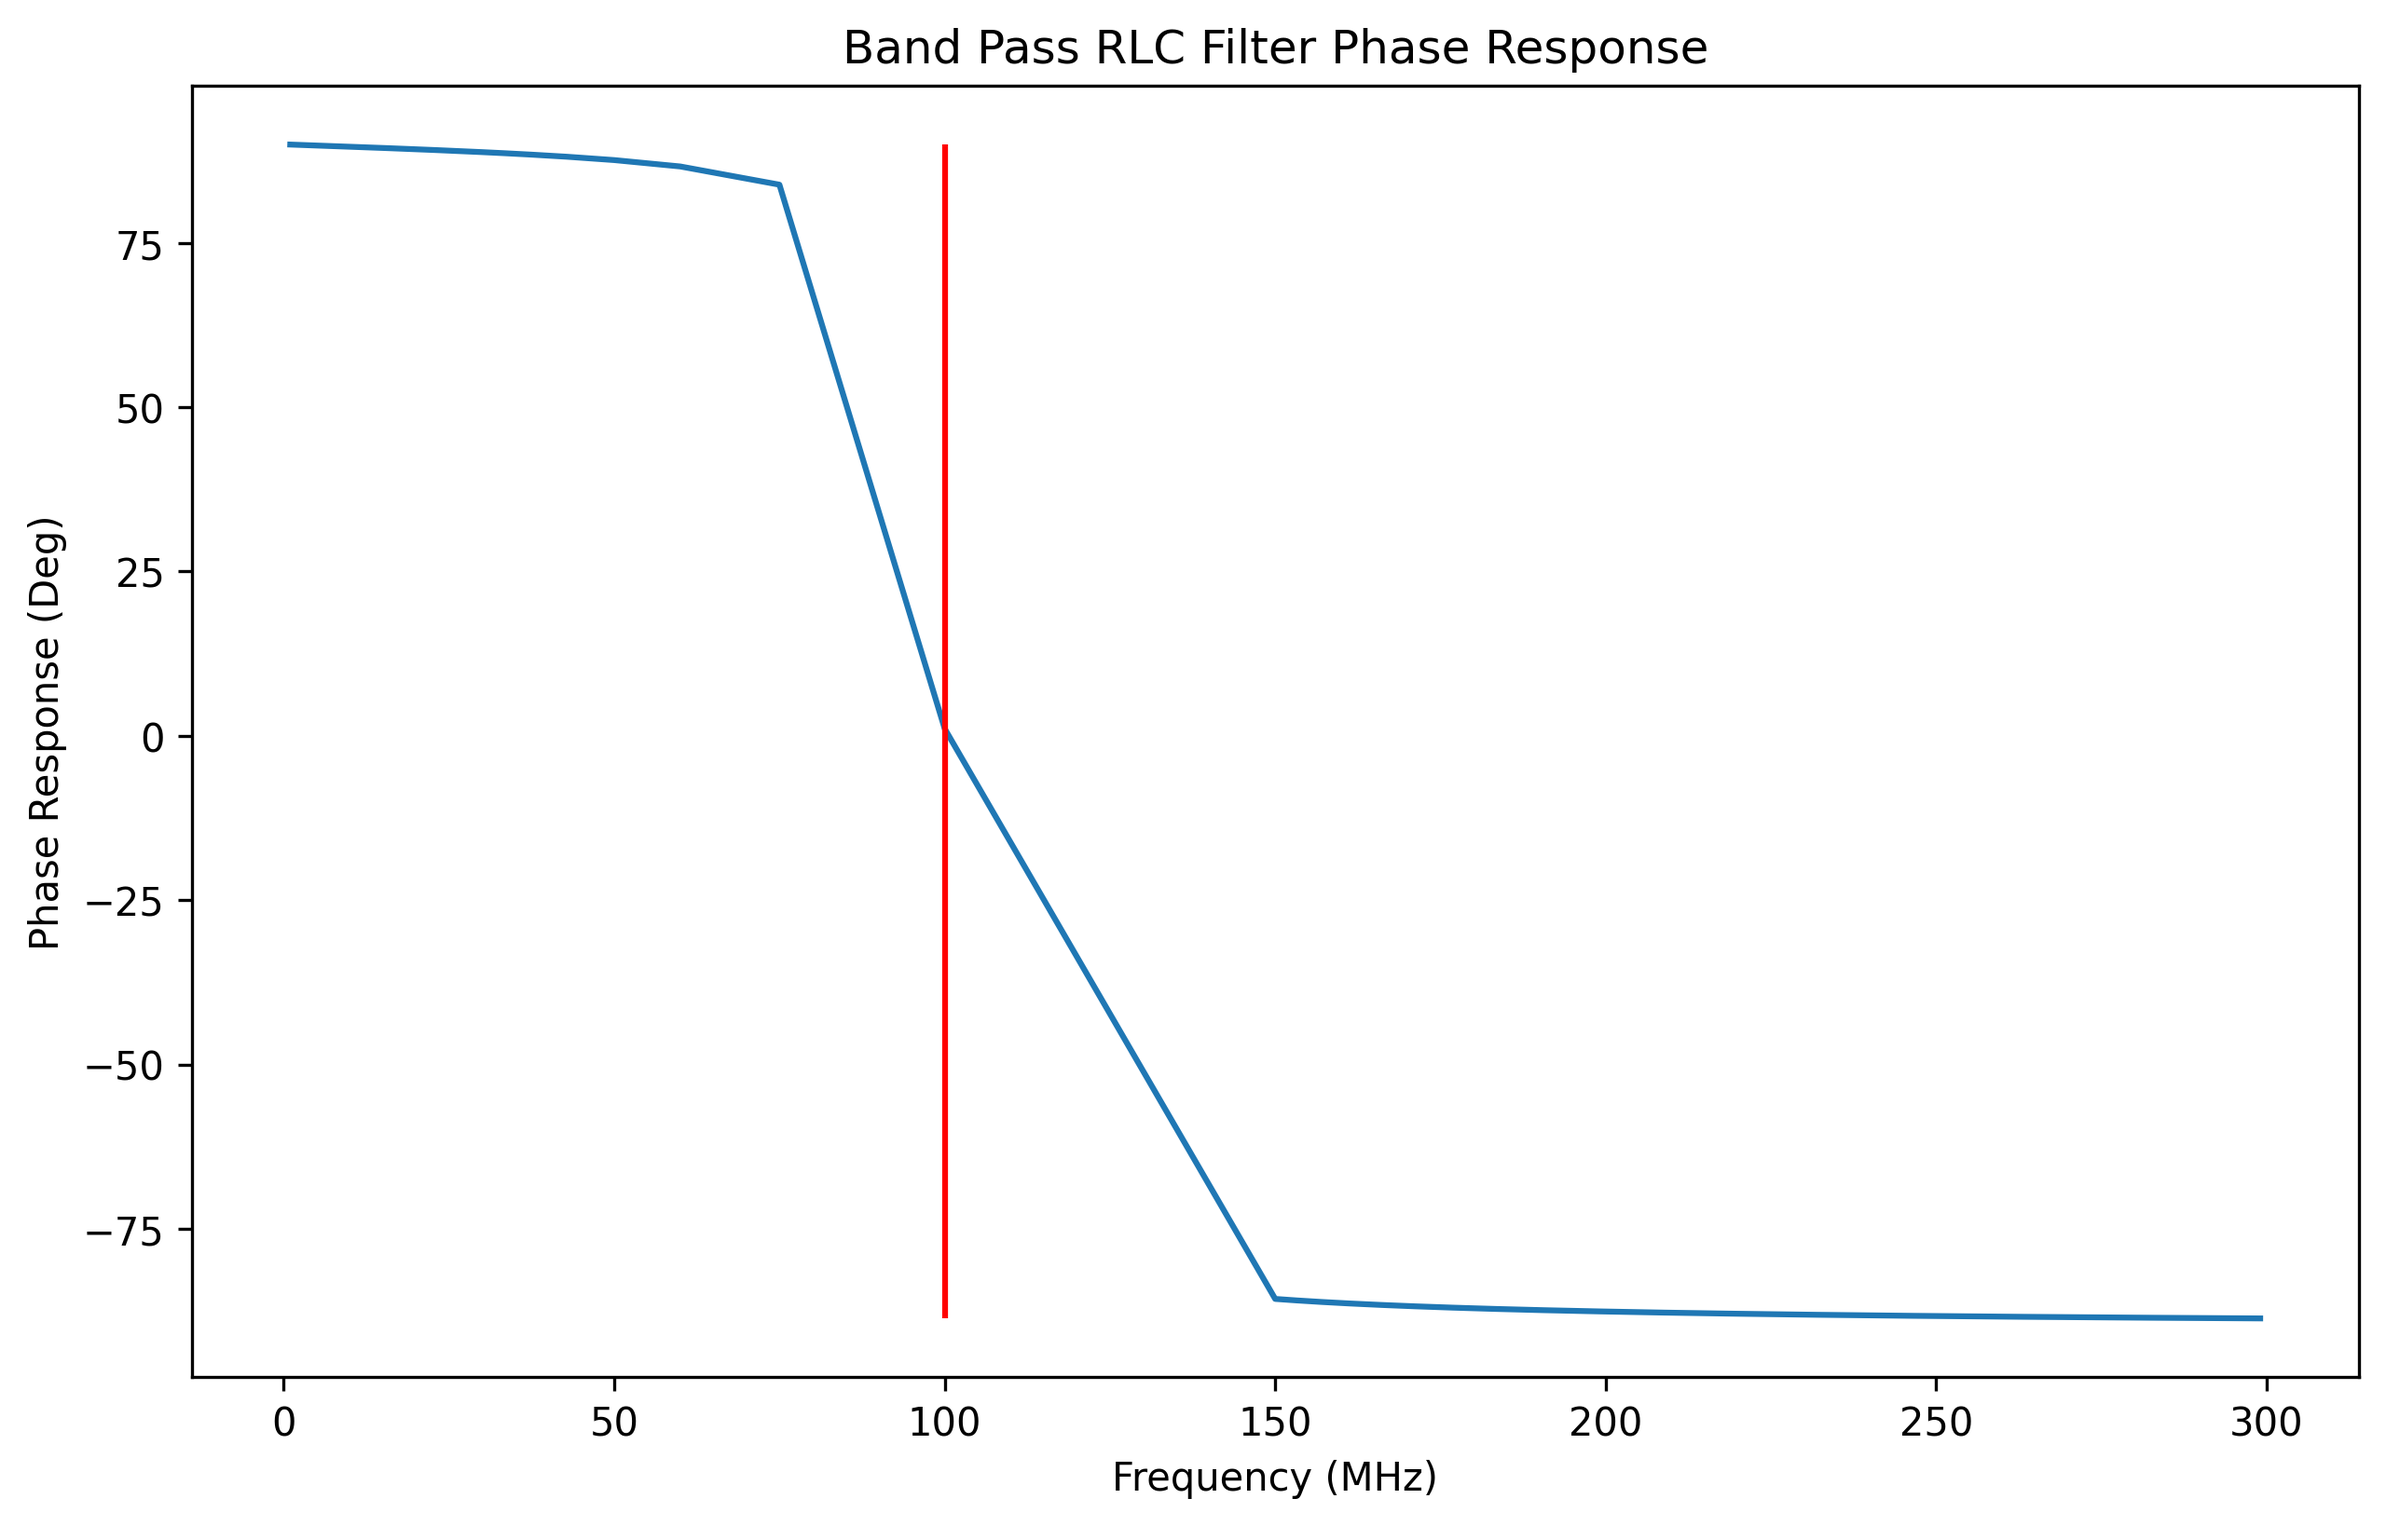
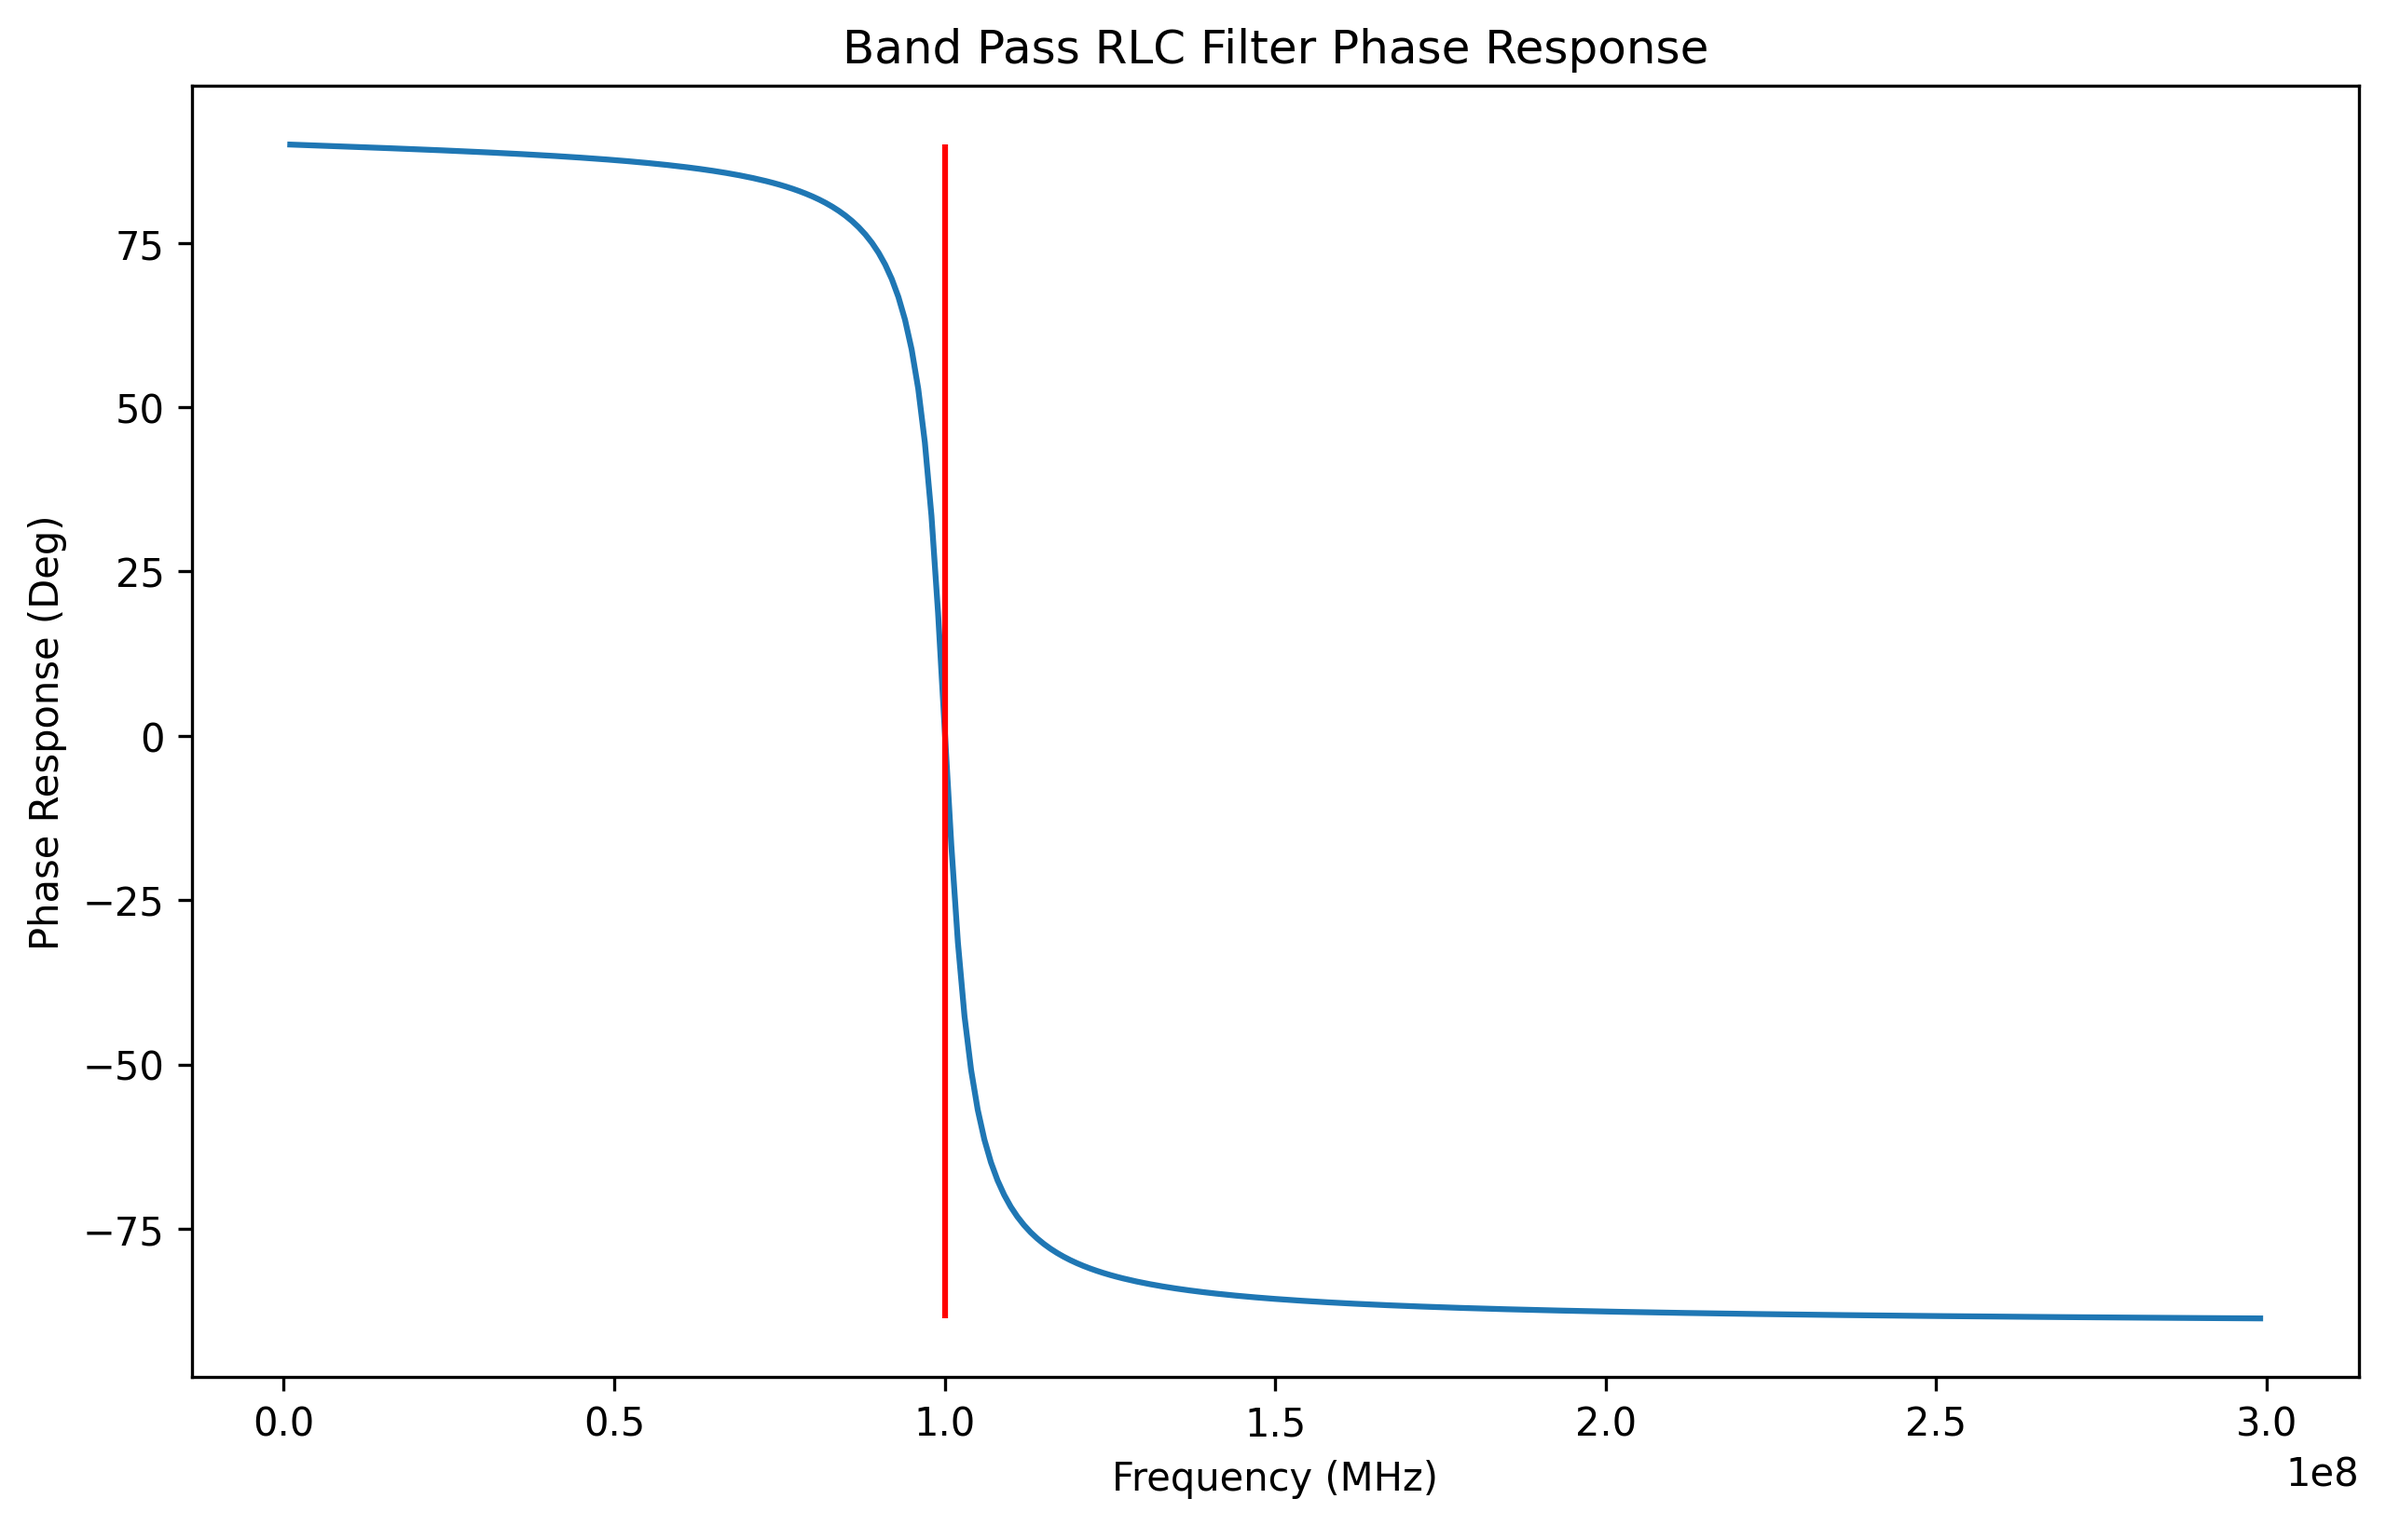
More work

diff --git a/Circuits/frequencyResponse.py b/Circuits/frequencyResponse.py
@@ -15,27 +15,31 @@ def response_finder(fs: list,ftype: str, R: float=0, C: float=0,L: float=0) -> t
         if ftype == 'Low':
             Z_2 = Z_C
             Z_1 = R
+            ctf = H(Z_1,Z_2)
         elif ftype == 'High':
             Z_2 = R
             Z_1 = Z_C
+            ctf = H(Z_1,Z_2)
         elif ftype == 'Band':
             Z_1 = 1j*w*L + Z_C
             Z_2 = R
-        Hphase = np.arctan(np.imag(H(Z_1,Z_2))/np.real(H(Z_1,Z_2)))
+            ctf = H(Z_1,Z_2)
+        elif ftype =='Tank':
+            Z_1 = 1j*w*L + Z_C
+            Z_2 = R
+            ctf = 1 - H(Z_1,Z_2)
+        Hphase = np.angle(ctf)
         Hphases.append(Hphase * 180/np.pi)
-        Hmag = np.sqrt(np.real(H(Z_1,Z_2))**2 + np.imag(H(Z_1,Z_2))**2)
+        Hmag = np.abs(ctf)
         Hmags.append(Hmag)
     return Hmags, Hphases
 
 
 c = 3e8 #m/s
-wls1 = np.arange(300,1,-1) # meters
-wls2 = np.arange(2,1,-1/300)
-wls = np.concatenate((wls1,wls2))
 C = 1e-9 # Farads
 R = 50 # Ohms
 L = 1e-6 # H
-fs = [c/wl for wl in wls] # Hz
+fs = [val*1e6 for val in np.arange(1,300,1)] # MHz
 fc = 1/(2*np.pi*R*C) # Hz
 print("Frequency Cutoff at " + str(round(fc,-6)/1e6) + " MHz")
 
@@ -49,8 +53,8 @@ Hmags, Hphases = response_finder(fs,'Low',R,C)
 
 plt.figure(figsize=(10,6))
 plt.title("Low Pass RC Filter Magnitude Response")
-plt.plot([f/1e6 for f in fs],20*np.log10(np.abs(Hmags)))
-plt.vlines(fc/1e6,20*np.log10(np.abs(min(Hmags))),20*np.log10(np.abs(max(Hmags))),colors='red', linestyles='solid')
+plt.plot(fs,20*np.log10(Hmags))
+plt.vlines(fc,20*np.log10(min(Hmags)),20*np.log10(max(Hmags)),colors='red', linestyles='solid')
 plt.xlabel('Frequency (MHz)')
 plt.ylabel('Magnitude Response (dB)')
 plt.savefig('LPmag.png', dpi=300, bbox_inches='tight')
@@ -59,8 +63,8 @@ print('Magnitude Response Plot Saved')
 
 plt.figure(figsize=(10,6))
 plt.title("Low Pass RC Filter Phase Response")
-plt.plot([f/1e6 for f in fs],Hphases)
-plt.vlines(fc/1e6,min(Hphases),max(Hphases),colors='red', linestyles='solid')
+plt.plot(fs,Hphases)
+plt.vlines(fc,min(Hphases),max(Hphases),colors='red', linestyles='solid')
 plt.xlabel("Frequency (MHz)")
 plt.ylabel('Phase Response (Deg)')
 plt.savefig('LPphase.png', dpi=300, bbox_inches='tight')
@@ -78,8 +82,8 @@ Hmags, Hphases = response_finder(fs,'High',R,C)
 
 plt.figure(figsize=(10,6))
 plt.title("High Pass RC Filter Magnitude Response")
-plt.plot([f/1e6 for f in fs],20*np.log10(np.abs(Hmags)))
-plt.vlines(fc/1e6,20*np.log10(np.abs(min(Hmags))),20*np.log10(np.abs(max(Hmags))),colors='red', linestyles='solid')
+plt.plot(fs,20*np.log10(Hmags))
+plt.vlines(fc,20*np.log10(min(Hmags)),20*np.log10(max(Hmags)),colors='red', linestyles='solid')
 plt.xlabel('Frequency (MHz)')
 plt.ylabel('Magnitude Response (dB)')
 plt.savefig('HPmag.png', dpi=300, bbox_inches='tight')
@@ -88,8 +92,8 @@ print('Magnitude Response Plot Saved')
 
 plt.figure(figsize=(10,6))
 plt.title("High Pass RC Filter Phase Response")
-plt.plot([f/1e6 for f in fs],Hphases)
-plt.vlines(fc/1e6,min(Hphases),max(Hphases),colors='red', linestyles='solid')
+plt.plot(fs,Hphases)
+plt.vlines(fc,min(Hphases),max(Hphases),colors='red', linestyles='solid')
 plt.xlabel("Frequency (MHz)")
 plt.ylabel('Phase Response (Deg)')
 plt.savefig('HPphase.png', dpi=300, bbox_inches='tight')
@@ -98,7 +102,7 @@ print('Phase Response Plot Saved')
 
 ############################################
 
-# BAND PASS/STOP FILTER - RLC
+# BAND PASS FILTER - RLC SERIES
 
 ############################################
 
@@ -108,7 +112,7 @@ C = 10e-12 # F
 
 rez = 1/(np.sqrt(L*C))
 Q = rez*L/R
-f_o = int(rez/(2*np.pi)/1e6)
+f_o = int(rez/(2*np.pi))
 bw = R/L
 f_1 = (np.sqrt((R/(2*L))**2 + rez**2) - R/(2*L))/(2*np.pi)
 f_2 = (np.sqrt((R/(2*L))**2 + rez**2) + R/(2*L))/(2*np.pi)
@@ -118,9 +122,9 @@ Hmags, Hphases = response_finder(fs,'Band',R,C,L)
 
 plt.figure(figsize=(10,6))
 plt.title("Band Pass RLC Filter Magnitude Response")
-plt.plot([f/1e6 for f in fs],20*np.log10(np.abs(Hmags)))
-plt.vlines(f_o,20*np.log10(np.abs(min(Hmags))),20*np.log10(np.abs(max(Hmags))),colors='red', linestyles='solid')
-plt.hlines(20*np.log10(np.abs(max(Hmags))),f_1/1e6,f_2/1e6,colors='orange',linestyles='solid')
+plt.plot(fs,20*np.log10(Hmags))
+plt.vlines(f_o,20*np.log10(min(Hmags)),20*np.log10(max(Hmags)),colors='red', linestyles='solid')
+plt.hlines(20*np.log10(max(Hmags)),f_1,f_2,colors='orange',linestyles='solid')
 plt.xlabel('Frequency (MHz)')
 plt.ylabel('Magnitude Response (dB)')
 plt.savefig('BPmag.png', dpi=300, bbox_inches='tight')
@@ -128,18 +132,8 @@ plt.close()
 print('Magnitude Response Plot Saved')
 
 plt.figure(figsize=(10,6))
-plt.title("Band Stop RLC Filter Magnitude Response")
-plt.plot([f/1e6 for f in fs],20*np.log10(np.abs([1-Hmag for Hmag in Hmags])))
-plt.vlines(f_o,20*np.log10(np.abs(min(Hmags))),20*np.log10(np.abs(max(Hmags))),colors='red', linestyles='solid')
-plt.xlabel('Frequency (MHz)')
-plt.ylabel('Magnitude Response (dB)')
-plt.savefig('BSmag.png', dpi=300, bbox_inches='tight')
-plt.close()
-print('Magnitude Response Plot Saved')
-
-plt.figure(figsize=(10,6))
 plt.title("Band Pass RLC Filter Phase Response")
-plt.plot([f/1e6 for f in fs],Hphases)
+plt.plot(fs,Hphases)
 plt.vlines(f_o,min(Hphases),max(Hphases),colors='red', linestyles='solid')
 plt.xlabel("Frequency (MHz)")
 plt.ylabel('Phase Response (Deg)')
@@ -148,3 +142,29 @@ plt.close()
 print('Phase Response Plot Saved')
 
 ###############################################
+
+# NOTCH FILTER - TANK 
+
+###############################################
+
+Hmags, Hphases = response_finder(fs,'Tank',R,C,L)
+
+plt.figure(figsize=(10,6))
+plt.title("Band Stop RLC Filter Magnitude Response")
+plt.plot(fs,20*np.log10(Hmags))
+plt.vlines(f_o,20*np.log10(min(Hmags)),20*np.log10(max(Hmags)),colors='red', linestyles='solid')
+plt.xlabel('Frequency (MHz)')
+plt.ylabel('Magnitude Response (dB)')
+plt.savefig('BSmag.png', dpi=300, bbox_inches='tight')
+plt.close()
+print('Magnitude Response Plot Saved')
+
+plt.figure(figsize=(10,6))
+plt.title("Band Stop RLC Filter Phase Response")
+plt.plot(fs,Hphases)
+plt.vlines(f_o,min(Hphases),max(Hphases),colors='red', linestyles='solid')
+plt.xlabel("Frequency (MHz)")
+plt.ylabel('Phase Response (Deg)')
+plt.savefig('BSphase.png', dpi=300, bbox_inches='tight')
+plt.close()
+print('Phase Response Plot Saved')
